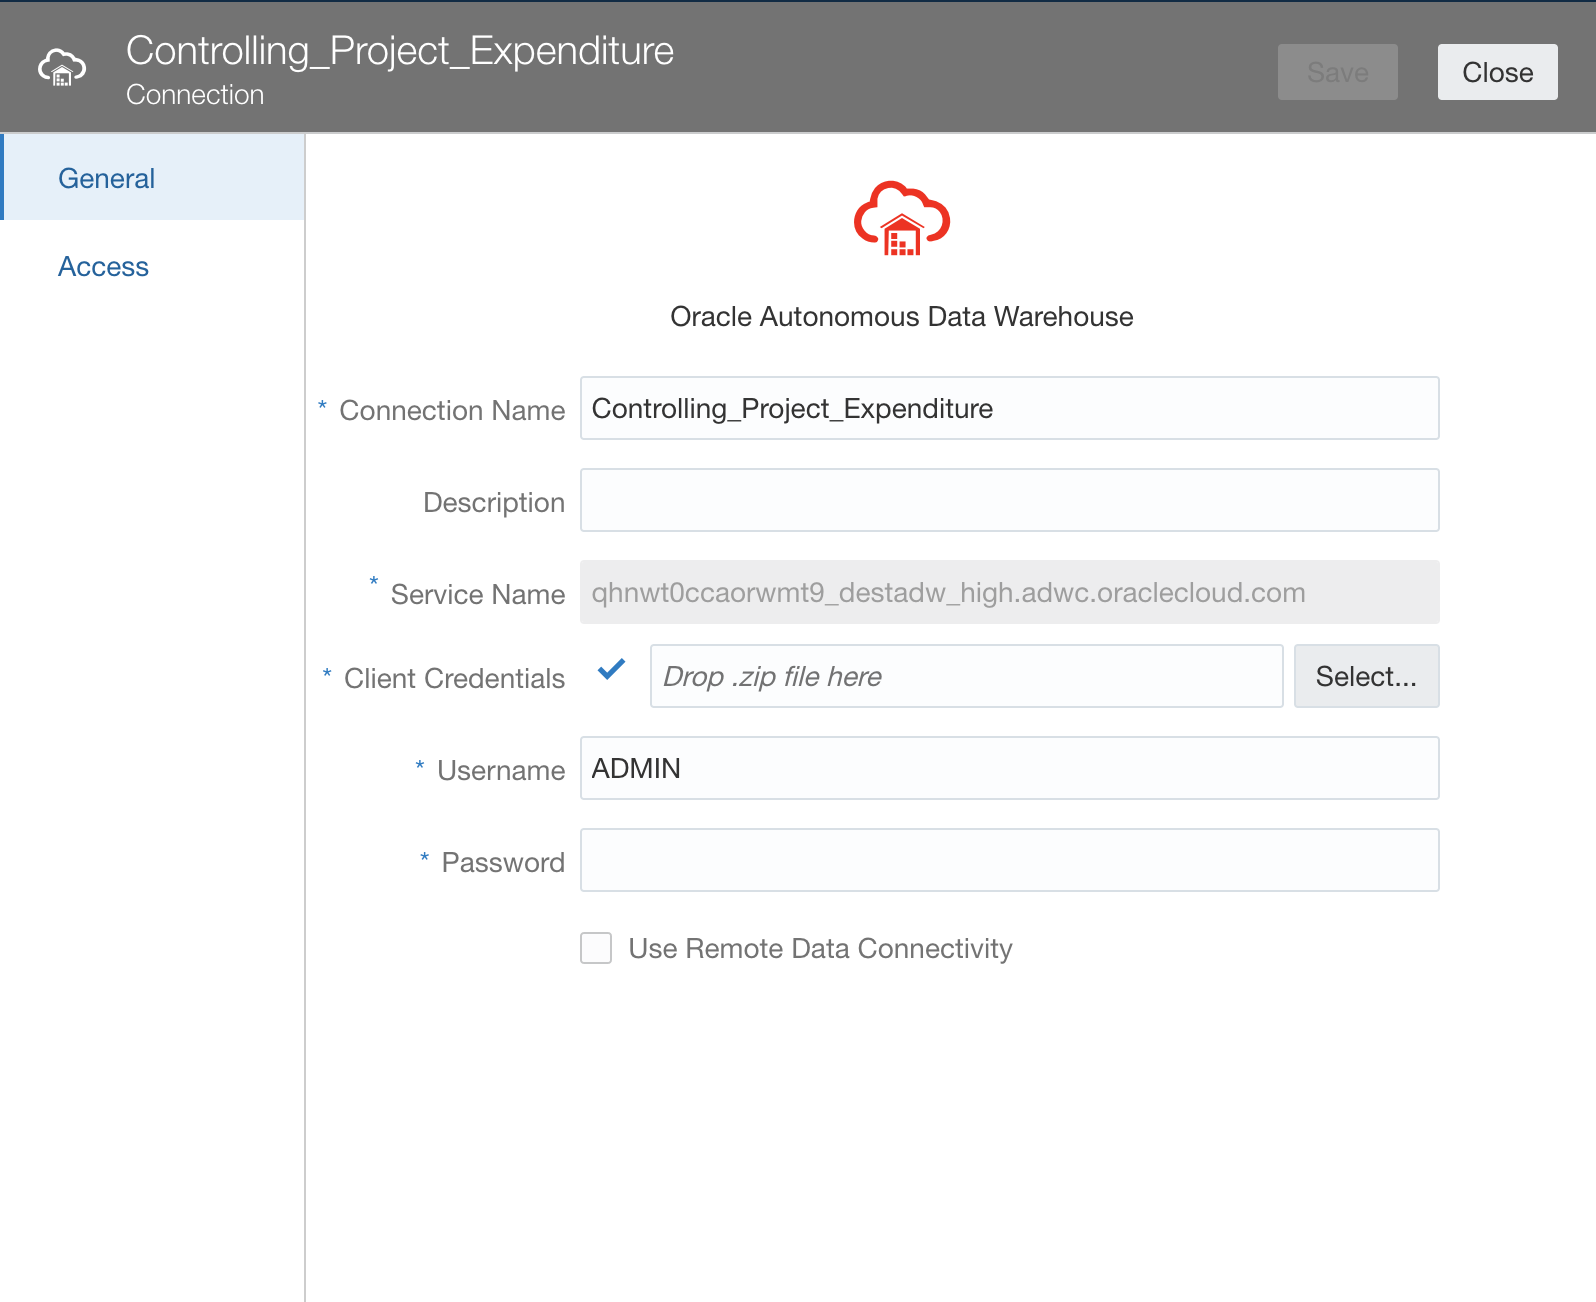
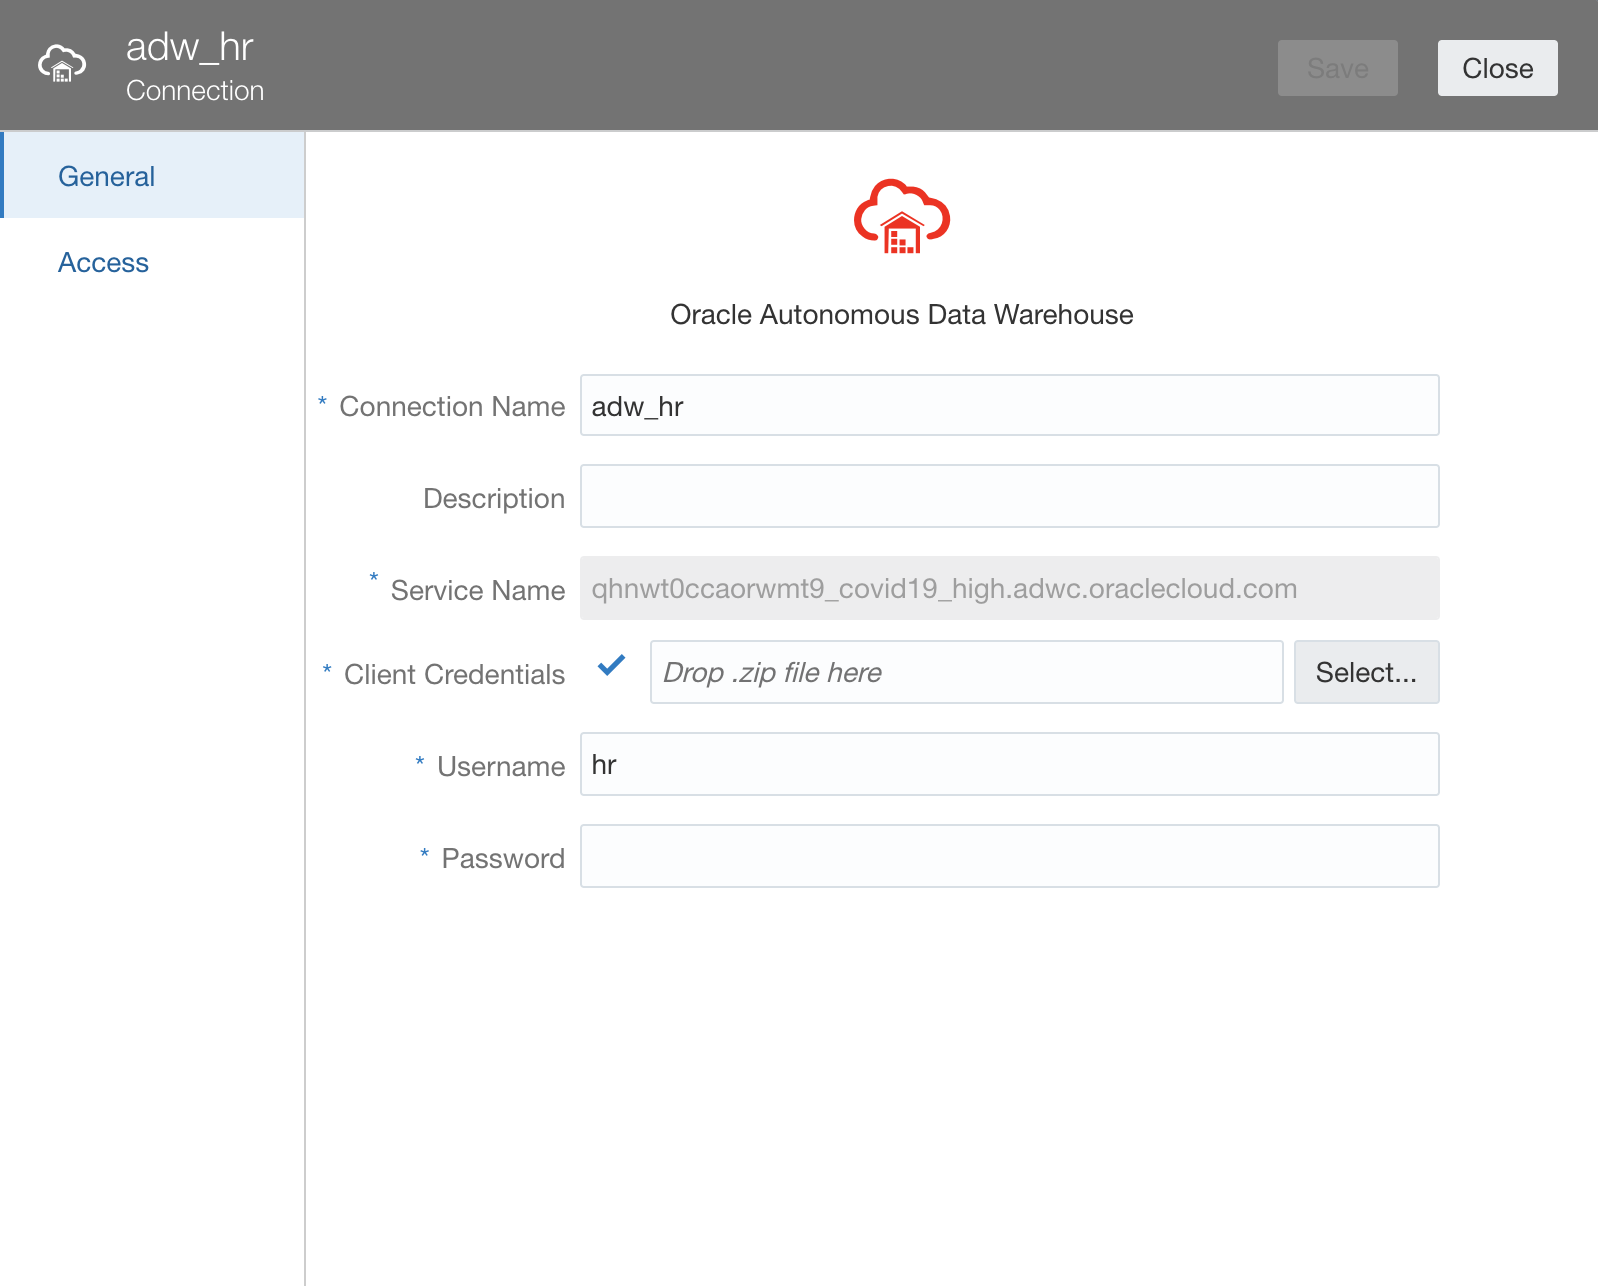
Latest Update

diff --git a/run-analytics/run-analytics.md b/run-analytics/run-analytics.md
@@ -4,10 +4,6 @@
 
 In this lab, you will use a DVA file to run analytics in Oracle Analytics Cloud.
 
-<!---To log issues and view the Lab Guide source, go to the [github oracle](https://github.com/oracle/learning-library/issues/new) repository.-->
-
-To log issues, go to [here]().
-
 ## Objectives
 
 As a system administrator or application developer:
@@ -21,22 +17,20 @@ As a system administrator or application developer:
 - Autonomous Data Warehouse (ADW) and Oracle Analytics Cloud (OAC) instances.
 - Access to sql and dva files needed to recreate this demo.
 
-## Steps
-
 ### STEP 1: ADW Setup
 
 - Log in to your already provisioned autonomous data warehouse (ADW) instance.
 
 - Use SQL developer to connect to your database with the ADMIN user.
 
-- Execute the 'controlling_project_expenditure.sql' script to get all the needed tables and data entries. If you are using an existing database make sure that you have no tables under ADMIN with the same names: COST, COUNTRY_FORECAST, PPM_OAC19001_PROJECT_OVERVIEW_BUDGET_VS_ACTUAL, PPM_OAC19001_ROLLED_UP, STEEL_TARIFF, STEEL_TOTAL_COST_FORECAST_
+- After installing the HR schema, you should be able to see the following tables: EMPLOYEES, LOCATIONS, JOBS, COUNTRIES, DEPARTMENTS, REGIONS, JOB_HISTORY
 
 
 ### STEP 2: Analytics Cloud Setup
 
 -  Log in to your analytics cloud instance. On the far right hamburger menu, select **Import Project/Flow**
 
--  Import the 'Controlling Project Expenditure Using Machine Learning.dva' file into OAC. The password is **Admin123**. Read more [here](https://docs.oracle.com/en/middleware/bi/analytics-desktop/bidvd/import-application-or-project.html).
+-  Import the 'Human Resources.dva' file into OAC. The password is **Admin123**. Read more [here](https://docs.oracle.com/en/middleware/bi/analytics-desktop/bidvd/import-application-or-project.html).
 
     ![](./images/import.png " ")
     ![](./images/import4.png " ")
@@ -60,3 +54,8 @@ As a system administrator or application developer:
 
     ![](./images/visual.png " ")
 
+### STEP 3: Uploading a file to the Datawarehouse using OAC
+
+- Click on the **Create** button and then select **Data Flow**.
+
+- Select the **Create Data Set**, choose the **Click to Browse** option and select the **AttritionPrediction.csv** file. You may drag and drop the file instead.

diff --git a/README.md b/README.md
@@ -1,6 +1,6 @@
 ## Introduction
 
-**Departmental Analytics**
+**HR Analytics**
 
 Lines of business like the HR department, for instance,typically don't have timely or efficient access to data and information. Analysts gather the data manually, work with it on an individual basis, and then share copies of files through email or file servers. With Oracle Autonomous Data Warehouse and Oracle Analytics Cloud, you can load and optimize data from a multitude of sources into a centralized data warehouse for analysis so departments can gain actionable insights.
 
@@ -11,7 +11,6 @@ These lab guides provide directions on how one can install the HR schema availab
 ## Goals for this workshop
 1. Provision the infrastructure required for HR analytics.
 2. Analyze data using OAC.
-
 
 ## Prerequisites
 
@@ -30,6 +29,6 @@ Lab 200 - Run Analytics - Create Dashboards
 
 Author - Maharshi Desai, Yash Lamba, Clarence Ondieki, Shikhar Mishra, Srihareendra Bodduluri, Frankie OToole 
 
-Last Update - August 4, 2020.
+Last Update - August 5, 2020.
 
 **You are all set. Let us begin!**
